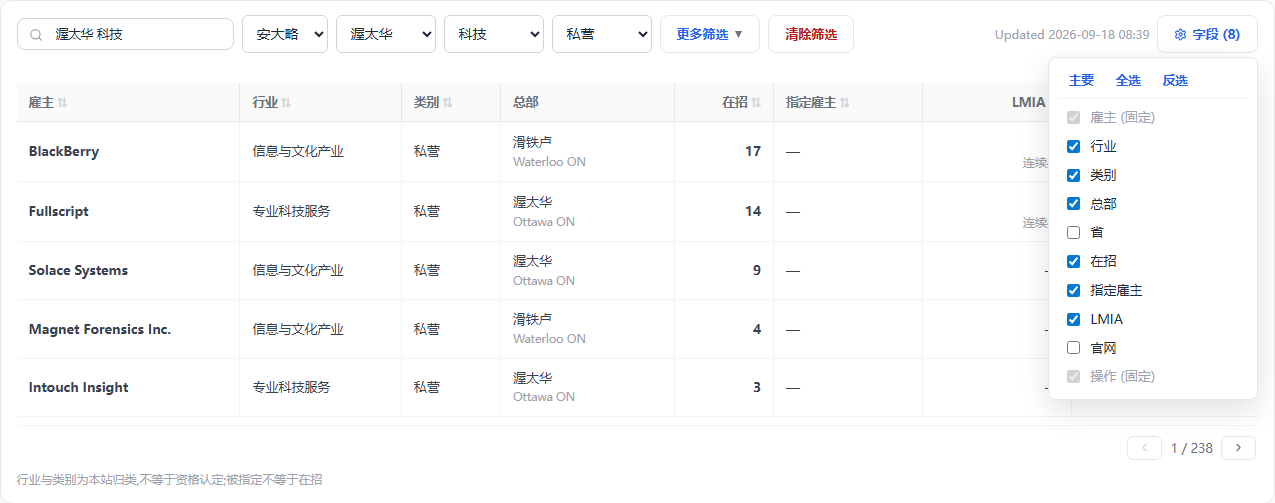
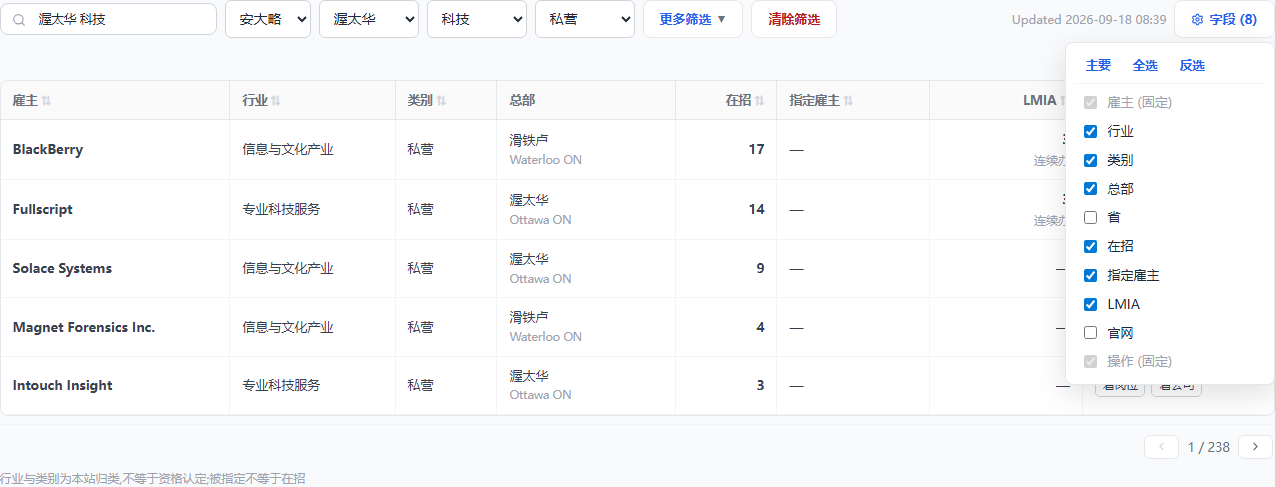
docs(design): 雇主板外框照职位板 —— 筛选行铺灰底、表格单独白壳(Frank「也改成职位板那样」)[skip render]

diff --git a/docs/design/雇主分类与搜索-20260918.md b/docs/design/雇主分类与搜索-20260918.md
@@ -64,6 +64,7 @@
 - 「更多筛选」折叠区放经验(经验不限 / 无经验可投)与 LMIA(LMIA 不限 / 办过 LMIA / 连续办 LMIA)两个下拉,钮形照职位板(secondary + 三角)。**整行全是下拉与钮,不用胶囊开关**(Frank「这种也设计成下拉框?」)。
 - **不出已选胶囊行**(Frank「这种胶囊的也去掉吧」):搜索认出的维度直接落进对应下拉框显示,改下拉即改筛选。
 - ≤640 手机:搜索 + 省 + 城市露出,行业、类别与折叠区两项全进「更多筛选」。
+- **外框也照职位板**(Frank「也改成职位板那样」):筛选行直接铺在页面灰底上,表格单独一个带边框的白壳;08-27 换装批「筛选行与表包在同一张白卡里」的形撤。翻页与口径注在壳外。
 
 ### 搜索:跨列多词(照职位板搜索机器)
 
@@ -175,7 +176,7 @@
 14. 类别格纯文字不用胶囊(Frank「这个不需要显示胶囊」)。
 15. 加「字段」钮自选列,照职位板;指定雇主、LMIA 默认不勾,筛了自动勾(Frank「应该加一个字段按钮」)。第 12 条并入本条。
 16. 点雇主名开公司弹框,与职位板同一件(Frank「雇主弹框也加上」)。
-17. 筛选行逐位照职位板布局;省下拉保留,城市随省联动;经验与 LMIA 进「更多筛选」(Frank「可以参考下 job 页面的布局吗」「省份筛选加了吗」)。
+17. 外框照职位板:筛选行铺灰底、表格单独白壳,白卡外框撤(Frank「也改成职位板那样」)。筛选行逐位照职位板布局;省下拉保留,城市随省联动;经验与 LMIA 进「更多筛选」(Frank「可以参考下 job 页面的布局吗」「省份筛选加了吗」)。
 
 **待拍**:
 - 行业别名表(「科技」= 51 + 54 这类归并)由我填、Frank 抽查 —— 同 Jobillico 映射表做法。
